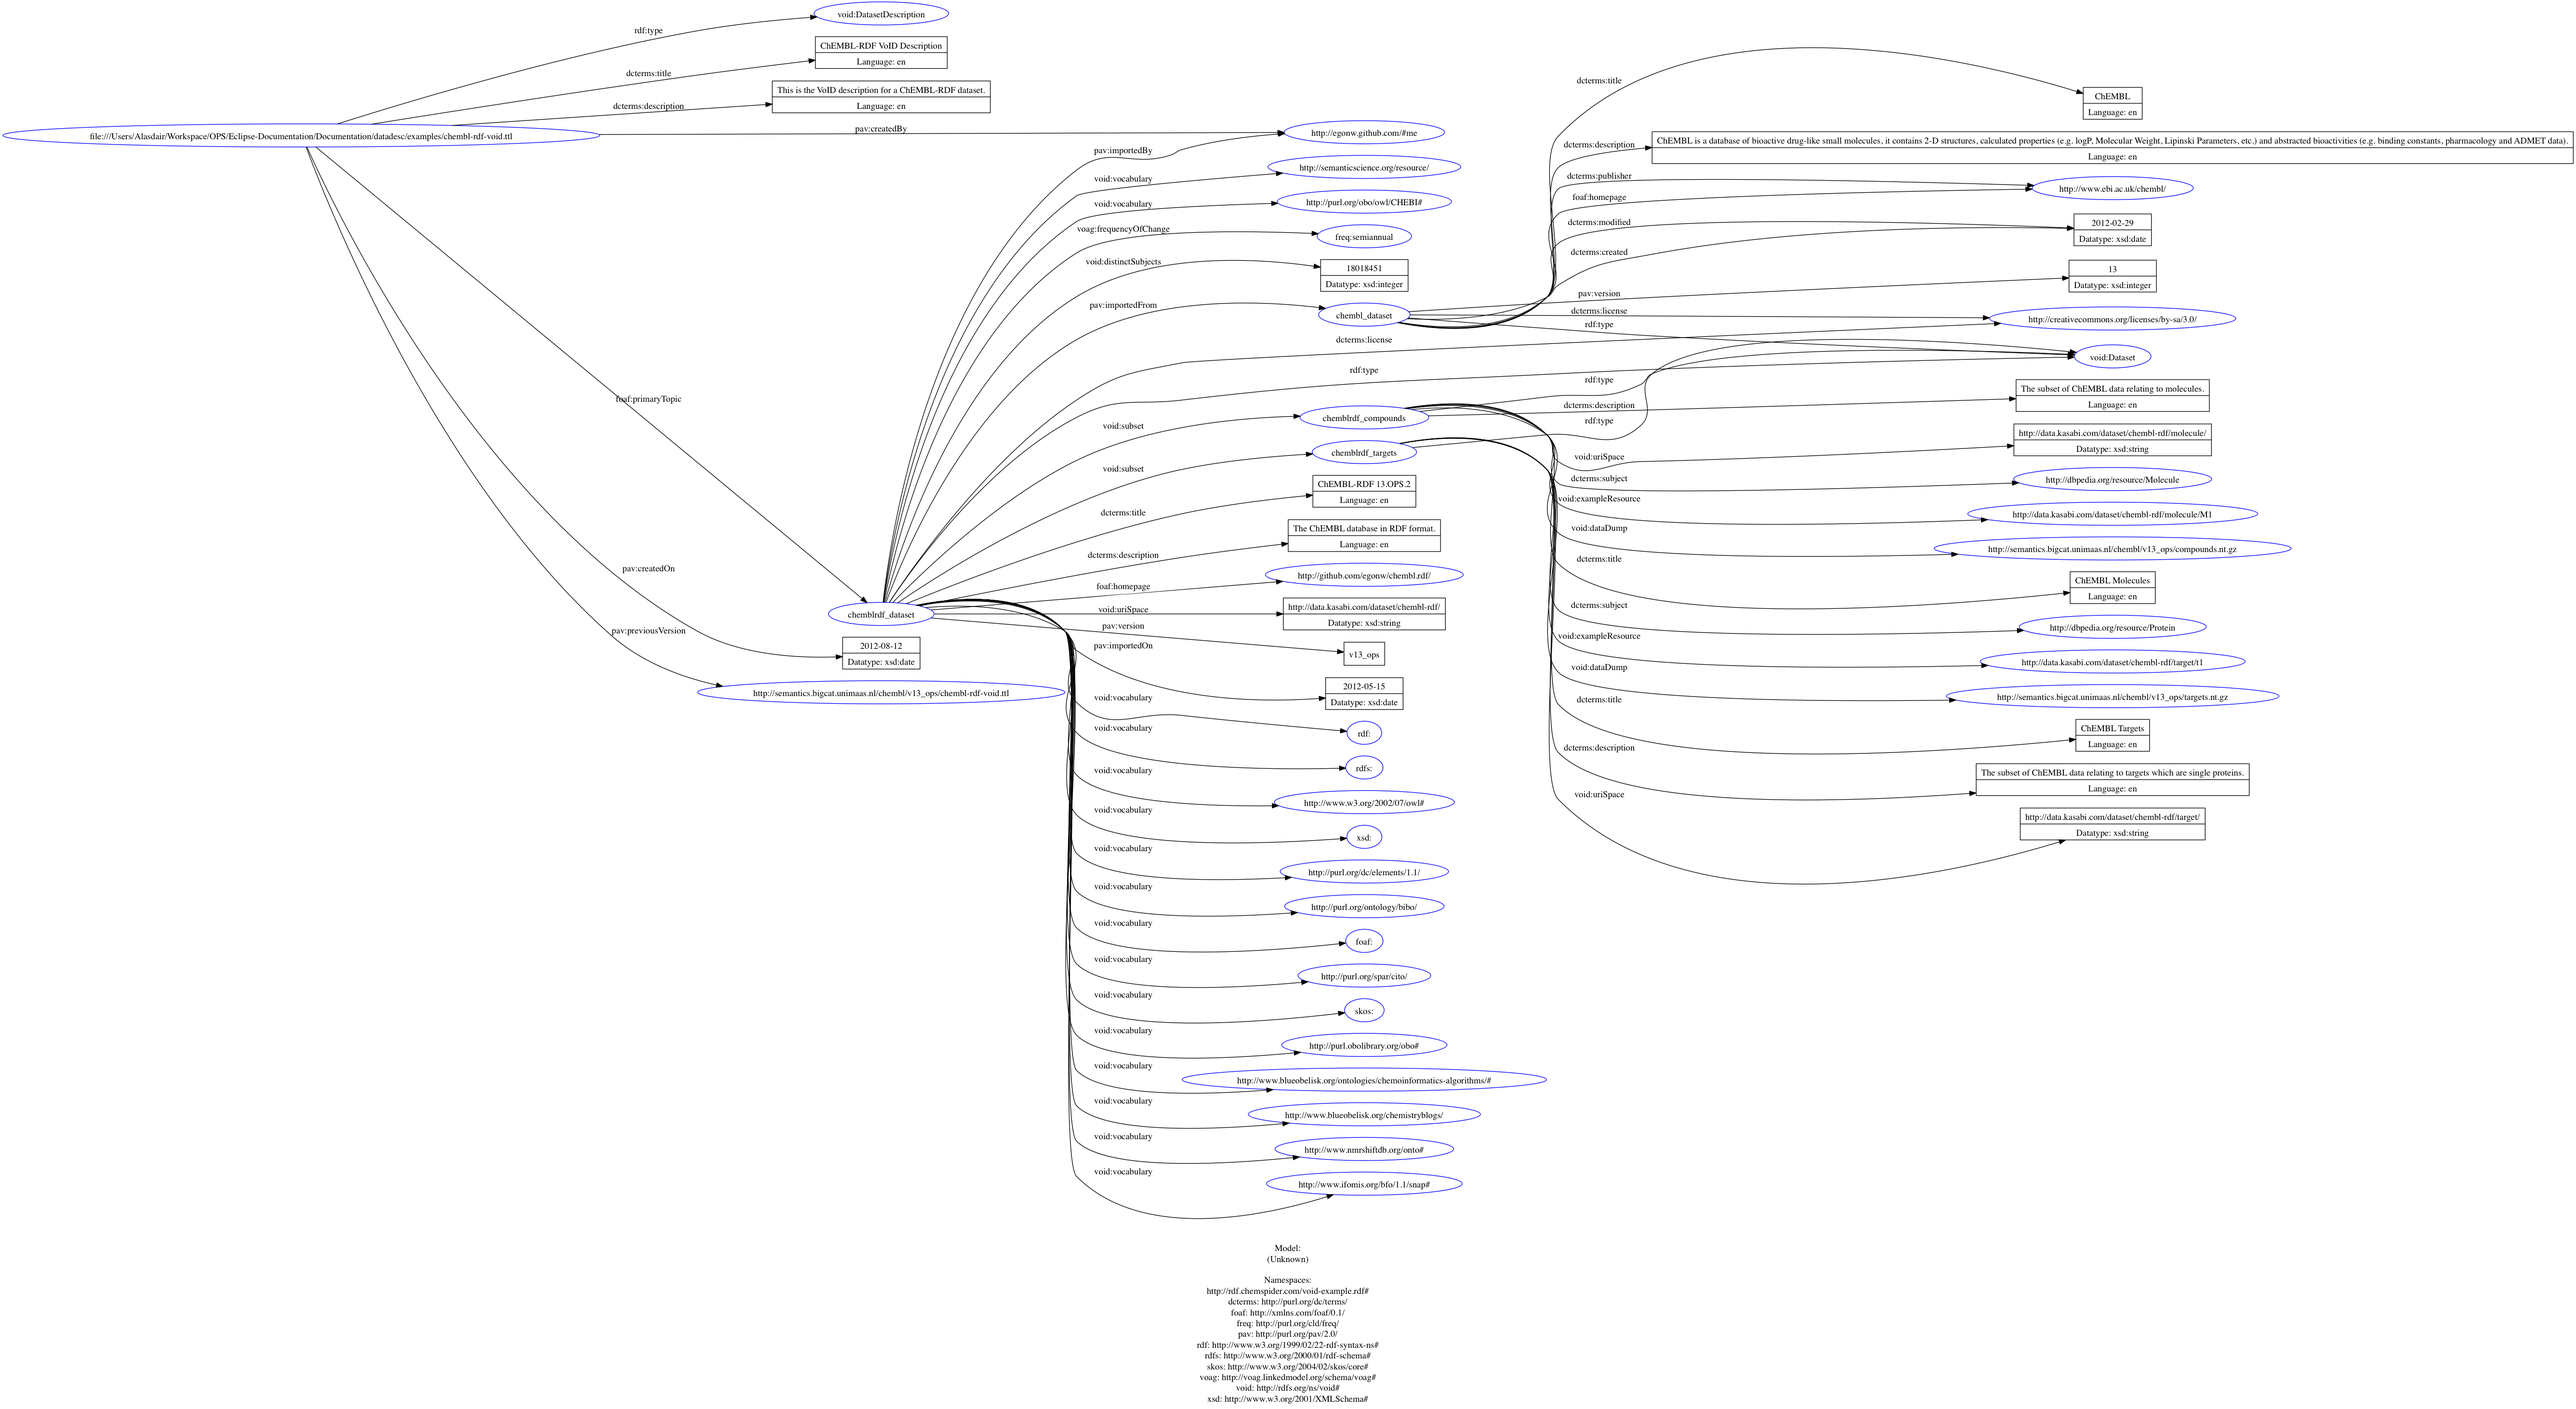
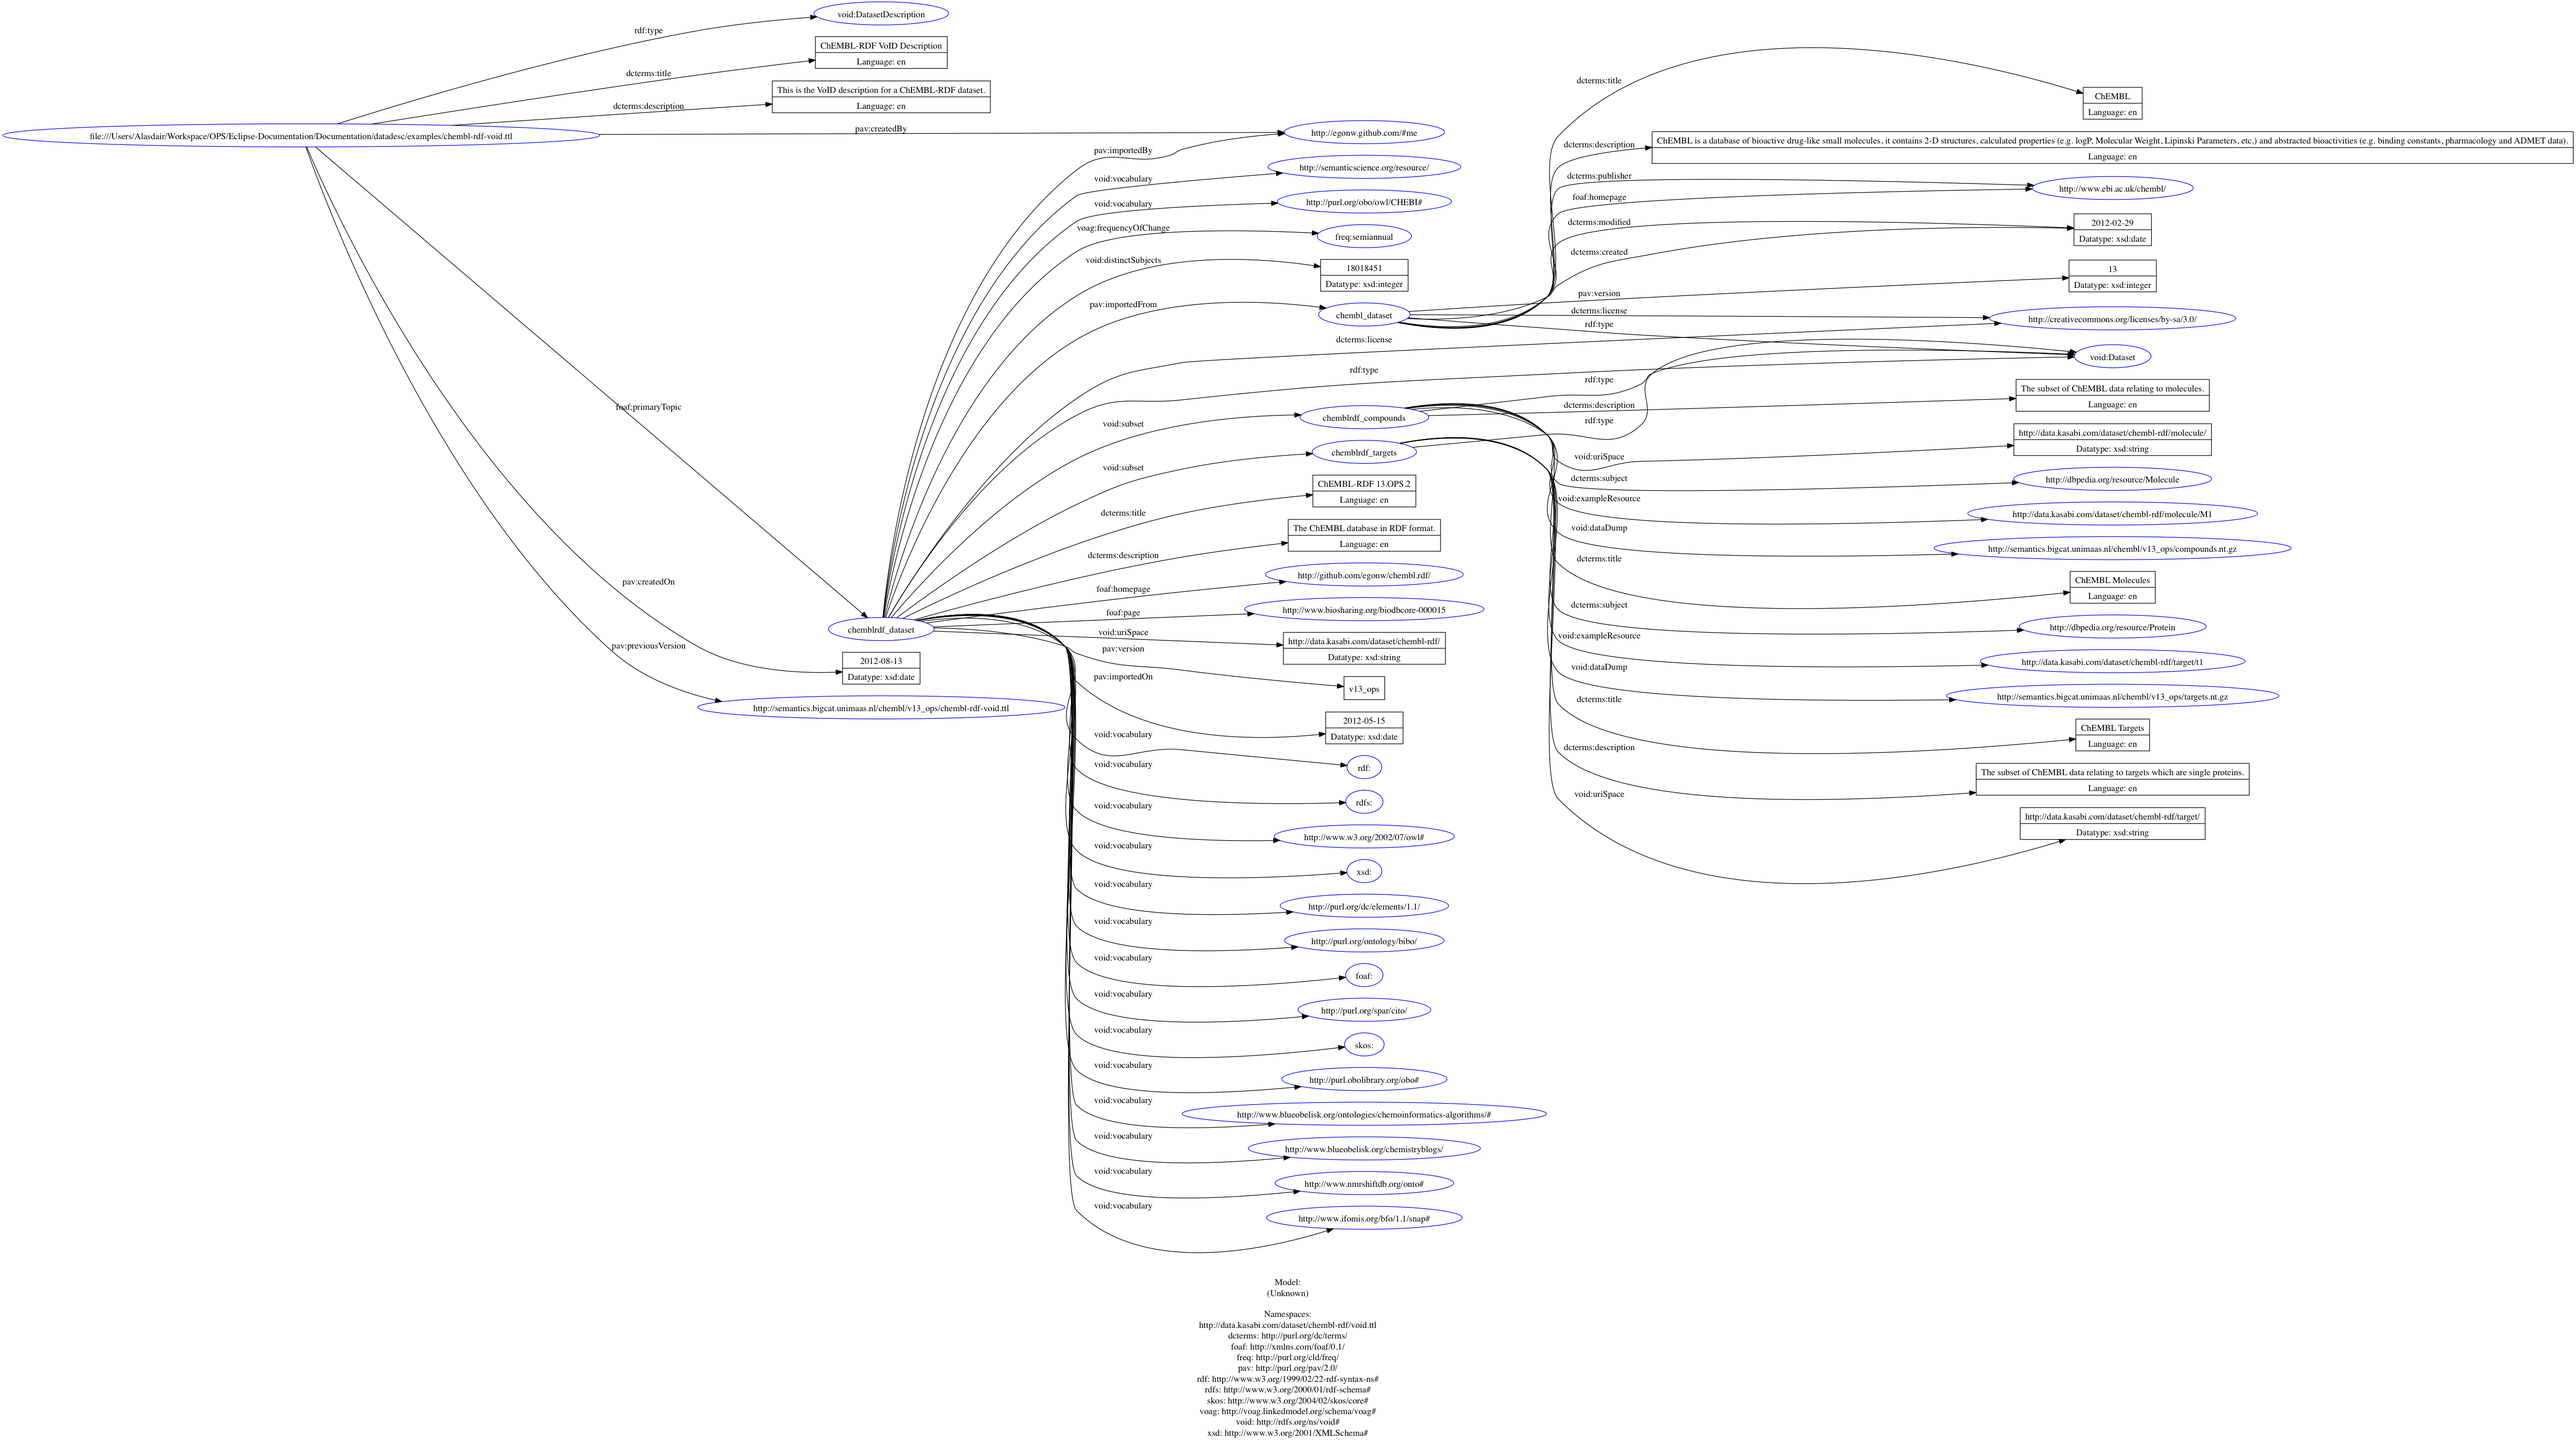
Added bioDBcore link to ChEMBL example

diff --git a/datadesc/index.html b/datadesc/index.html
@@ -15,7 +15,7 @@
 		customcss:            "../css/ops.css",
 		specStatus:           "ED",
 		shortName:            "datadesc",
-		publishDate:   "2012-08-13",
+		publishDate:   "2012-08-14",
 		previousMaturity: "WD",
 		previousPublishDate:  "2012-06-15",
 		previousURI : "http://www.cs.manchester.ac.uk/~graya/ops/2012/WD-mappingspec-20120615/",
@@ -1619,6 +1619,7 @@
     dcterms:title "ChEMBL-RDF 13.OPS.2"@en;
     dcterms:description "The ChEMBL database in RDF format."@en;
     foaf:homepage &lt;http://github.com/egonw/chembl.rdf/&gt;;
+    foaf:page &lt;http://www.biosharing.org/biodbcore-000015&gt;;
     dcterms:license &lt;http://creativecommons.org/licenses/by-sa/3.0/&gt; ;
     void:uriSpace "http://data.kasabi.com/dataset/chembl-rdf/"^^xsd:string ;
 # Provenance
